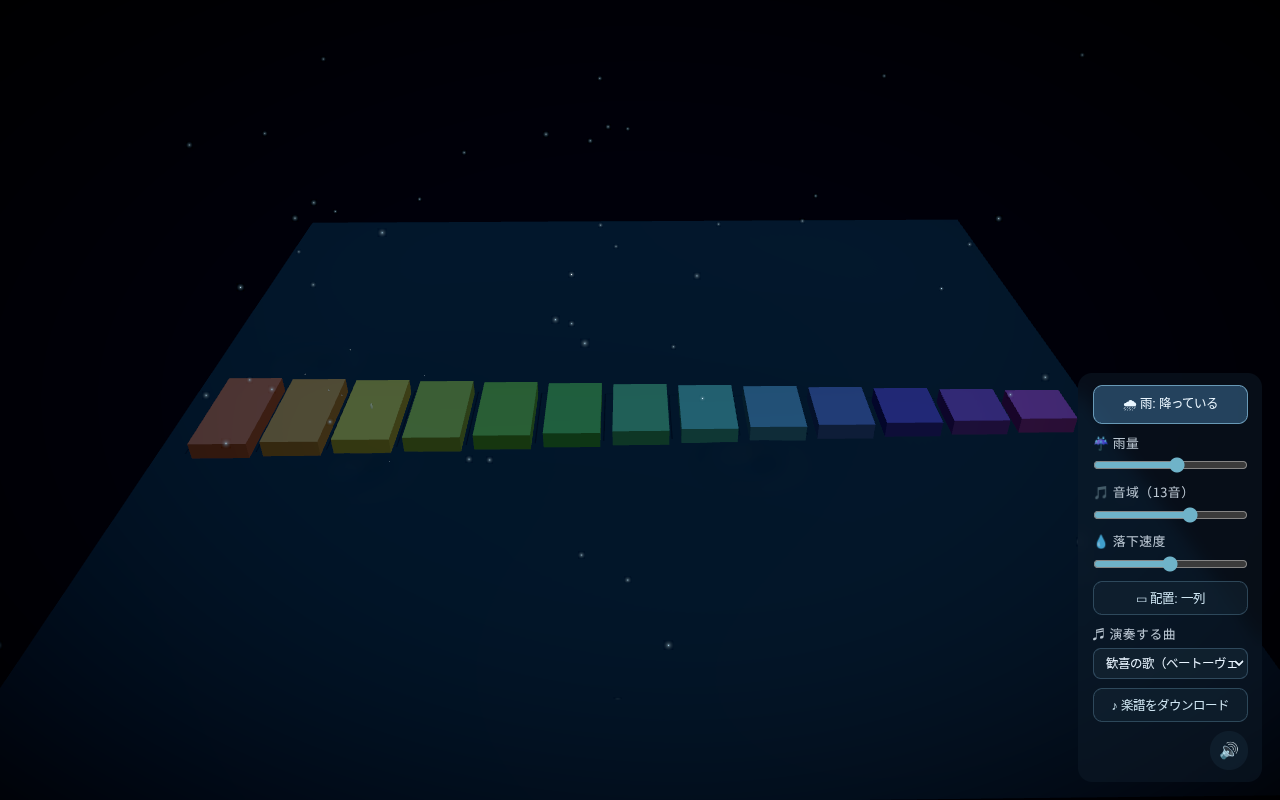
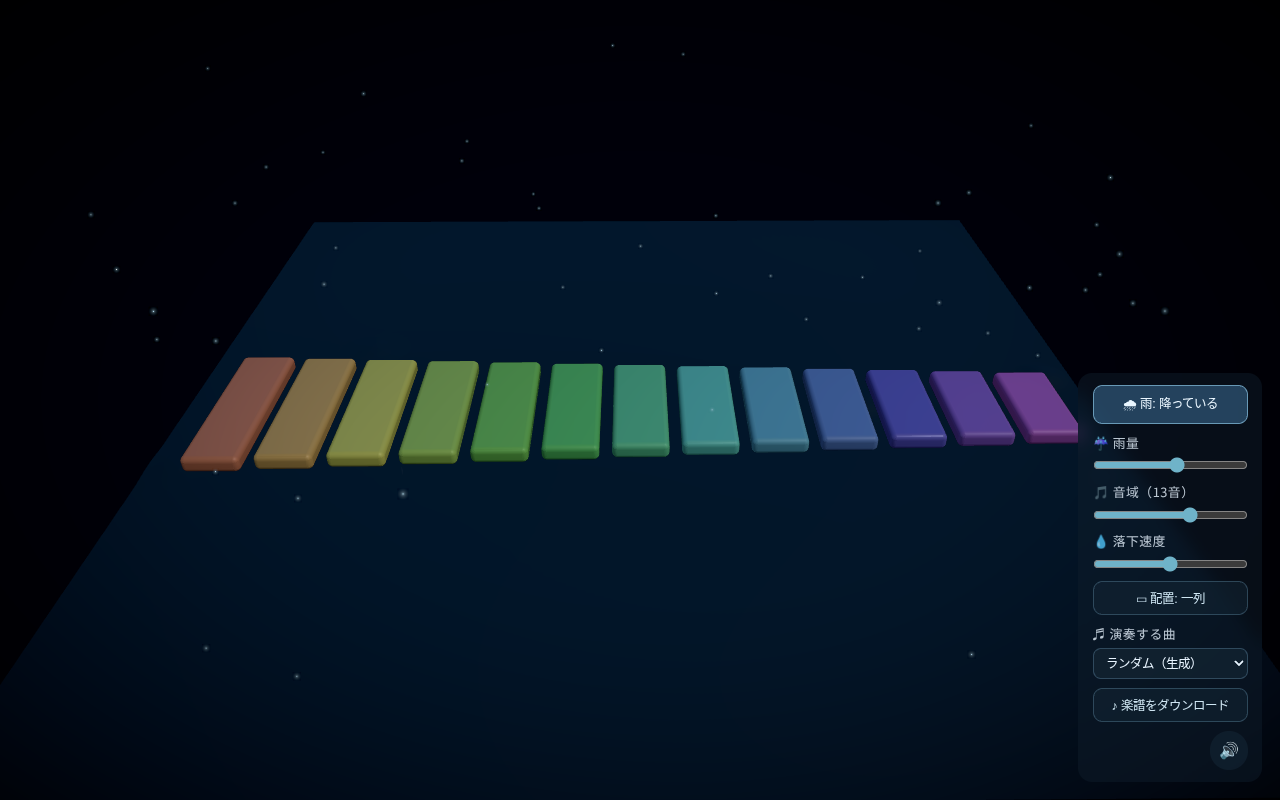
feat: スマホは描画品質を自動で低減（dpr/解像度/分割/影/AA）・板を長く・角丸＋マット木質でポリゴン感を解消

Changed region(s): [[0.125, 0.4375, 0.8438, 0.5938], [0.8438, 0.8125, 0.9375, 0.8438]]

diff --git a/src/scene/XylophoneBar.tsx b/src/scene/XylophoneBar.tsx
@@ -1,6 +1,7 @@
 import { useMemo, useRef, type MutableRefObject } from 'react'
 import { useFrame } from '@react-three/fiber'
-import { Color, type MeshStandardMaterial } from 'three'
+import { RoundedBox } from '@react-three/drei'
+import { Color, type MeshPhysicalMaterial } from 'three'
 import type { BarDef } from '../config'
 
 export type XylophoneBarProps = {
@@ -13,12 +14,14 @@ const GLOW_COLOR = new Color('#ffeeb0')
 const GLOW_DECAY = 4.5 // 秒で減衰（短い閃光に）
 
 /**
- * マリンバ風の鉄琴バー 1 本。着水のタイミングからの経過時間に応じて
- * emissive が立ち上がり徐々に収まる（Bloom で柔らかく光る）。
+ * マリンバ風の鉄琴バー 1 本。角を丸めた箱（RoundedBox）＋マットな木質＋うっすら艶の
+ * マテリアルにして、カクカクしたポリゴン感を抑える。命中時は emissive が立ち上がり徐々に収まる。
  */
 export function XylophoneBar({ bar, lastHitRef }: XylophoneBarProps) {
-  const matRef = useRef<MeshStandardMaterial>(null)
+  const matRef = useRef<MeshPhysicalMaterial>(null)
   const baseColor = useMemo(() => new Color(bar.color), [bar.color])
+  // 角の丸み。板の高さに対して控えめに（潰れない範囲で）。
+  const radius = Math.min(0.06, bar.size[1] * 0.45)
 
   useFrame((state) => {
     const mat = matRef.current
@@ -31,14 +34,24 @@ export function XylophoneBar({ bar, lastHitRef }: XylophoneBarProps) {
   })
 
   return (
-    <mesh position={[...bar.position]} rotation={[0, bar.rotationY, 0]} castShadow receiveShadow>
-      <boxGeometry args={[...bar.size]} />
-      <meshStandardMaterial
+    <RoundedBox
+      args={[...bar.size]}
+      radius={radius}
+      smoothness={4}
+      position={[...bar.position]}
+      rotation={[0, bar.rotationY, 0]}
+      castShadow
+      receiveShadow
+    >
+      <meshPhysicalMaterial
         ref={matRef}
         color={baseColor}
-        roughness={0.3}
-        metalness={0.65}
+        roughness={0.45}
+        metalness={0.1}
+        clearcoat={0.6}
+        clearcoatRoughness={0.35}
+        envMapIntensity={0.6}
       />
-    </mesh>
+    </RoundedBox>
   )
 }

diff --git a/src/util/quality.ts b/src/util/quality.ts
@@ -1,0 +1,28 @@
+/**
+ * 端末に応じた描画品質。スマホ等の非力な端末では解像度・分割数・影などを落として軽くする。
+ * 起動時に 1 度だけ判定する。
+ */
+function detectMobile(): boolean {
+  if (typeof navigator === 'undefined' || typeof window === 'undefined') return false
+  const coarse = window.matchMedia?.('(pointer: coarse)')?.matches ?? false
+  const touch = (navigator.maxTouchPoints ?? 0) > 0
+  const small = Math.min(window.innerWidth, window.innerHeight) < 768
+  return (coarse && touch) || small
+}
+
+export const isMobile = detectMobile()
+
+export const quality = {
+  /** Canvas の dpr 範囲。 */
+  dpr: (isMobile ? [0.75, 1.25] : [1, 2]) as [number, number],
+  /** 水面シミュレーションのテクスチャ解像度。 */
+  simRes: isMobile ? 128 : 256,
+  /** 水面メッシュの分割数。 */
+  waterSegments: isMobile ? 96 : 200,
+  /** 霧の粒子数。 */
+  sparkles: isMobile ? 24 : 60,
+  /** 影を落とすか（影は重いのでスマホは無効）。 */
+  shadows: !isMobile,
+  /** 後処理のマルチサンプリング。 */
+  multisampling: isMobile ? 0 : 4,
+}

diff --git a/src/scene/Scene.tsx b/src/scene/Scene.tsx
@@ -2,7 +2,8 @@ import { useMemo } from 'react'
 import { Canvas } from '@react-three/fiber'
 import { Environment, Lightformer, OrbitControls, Sparkles } from '@react-three/drei'
 import { ACESFilmicToneMapping } from 'three'
-import { POND_HALF, SIM_RES } from '../config'
+import { POND_HALF } from '../config'
+import { isMobile, quality } from '../util/quality'
 import { createWaterField } from '../water/waterField'
 import { WaterPlane } from '../water/WaterPlane'
 import { WaterSim } from '../water/WaterSim'
@@ -15,14 +16,14 @@ import { Effects } from './Effects'
  * 水面、放置で動く水滴・波紋・鉄琴バー、そして後処理（Bloom/Vignette）。
  */
 export function Scene() {
-  const field = useMemo(() => createWaterField(SIM_RES), [])
+  const field = useMemo(() => createWaterField(quality.simRes), [])
 
   return (
     <Canvas
-      shadows
-      dpr={[1, 2]}
+      shadows={quality.shadows}
+      dpr={quality.dpr}
       camera={{ position: [0, 6, 9], fov: 45 }}
-      gl={{ antialias: true, toneMapping: ACESFilmicToneMapping, toneMappingExposure: 1.1 }}
+      gl={{ antialias: !isMobile, toneMapping: ACESFilmicToneMapping, toneMappingExposure: 1.1 }}
     >
       <color attach="background" args={['#0a131d']} />
       <fog attach="fog" args={['#0a131d', 13, 30]} />
@@ -31,7 +32,7 @@ export function Scene() {
       <directionalLight
         position={[5, 9, 4]}
         intensity={1.1}
-        castShadow
+        castShadow={quality.shadows}
         shadow-mapSize-width={2048}
         shadow-mapSize-height={2048}
         shadow-bias={-0.0004}
@@ -63,7 +64,7 @@ export function Scene() {
 
       {/* 水面の上に漂う微かな霧の粒子。premium な空気感を足す。 */}
       <Sparkles
-        count={60}
+        count={quality.sparkles}
         scale={[POND_HALF * 2, 3.5, POND_HALF * 2]}
         position={[0, 1.4, 0]}
         size={2.4}

diff --git a/src/water/WaterPlane.tsx b/src/water/WaterPlane.tsx
@@ -11,26 +11,26 @@ import {
 } from 'three'
 import {
   POND_HALF,
-  SIM_RES,
   WATER_DISP_SCALE,
   WATER_LEVEL,
   WATER_NORMAL_STRENGTH,
 } from '../config'
+import { quality } from '../util/quality'
 import type { WaterField } from './waterField'
 
 /**
  * 高さ場テクスチャから頂点を変位させ、勾配から法線を再計算する水面。
  * MeshStandardMaterial を onBeforeCompile でパッチし、PBR の映り込み（環境マップ）と
- * Bloom/トーンマッピングにそのまま乗せる。これで「水面そのものが波打つ」表現になる。
+ * トーンマッピングにそのまま乗せる。これで「水面そのものが波打つ」表現になる。
  */
 
 const PLANE_SIZE = POND_HALF * 2
-const SEGMENTS = 200
+const SEGMENTS = quality.waterSegments
 
 export function WaterPlane({ field }: { field: WaterField }) {
   const uniforms = useRef<{ [k: string]: IUniform }>({
     uHeight: { value: null as Texture | null },
-    uTexel: { value: new Vector2(1 / SIM_RES, 1 / SIM_RES) },
+    uTexel: { value: new Vector2(1 / field.resolution, 1 / field.resolution) },
     uDisp: { value: WATER_DISP_SCALE },
     uNormalStrength: { value: WATER_NORMAL_STRENGTH },
   })

diff --git a/src/config.ts b/src/config.ts
@@ -100,10 +100,11 @@ function makeRowBars(notes: readonly string[]): BarDef[] {
   const spread = spacing * (c - 1)
   return notes.map((note, i) => {
     const frac = c > 1 ? i / (c - 1) : 0
+    // 板は長め（奥行 Z）。低音ほど長い。
     return {
       id: i,
-      position: [-spread / 2 + spacing * i, BAR_BASE_Y, 0.4] as const,
-      size: [spacing * 0.82, 0.18, 1.25 - 0.7 * frac] as const,
+      position: [-spread / 2 + spacing * i, BAR_BASE_Y, 0.3] as const,
+      size: [spacing * 0.82, 0.18, 2.0 - 0.8 * frac] as const,
       rotationY: 0,
       note,
       color: `hsl(${hueOf(frac)}, 55%, 62%)`,
@@ -122,7 +123,7 @@ function makeCircleBars(notes: readonly string[]): BarDef[] {
   return notes.map((note, i) => {
     const frac = c > 1 ? i / (c - 1) : 0
     const theta = (i / c) * Math.PI * 2
-    const depth = 1.1 - 0.5 * frac
+    const depth = 1.7 - 0.7 * frac // 長め
     return {
       id: i,
       position: [Math.sin(theta) * radius, BAR_BASE_Y, Math.cos(theta) * radius] as const,

diff --git a/src/scene/Effects.tsx b/src/scene/Effects.tsx
@@ -4,6 +4,7 @@ import {
   HueSaturation,
   Vignette,
 } from '@react-three/postprocessing'
+import { quality } from '../util/quality'
 
 /**
  * 静かな夜の水面らしい雰囲気のための後処理。
@@ -15,7 +16,7 @@ import {
  */
 export function Effects() {
   return (
-    <EffectComposer multisampling={4}>
+    <EffectComposer multisampling={quality.multisampling}>
       {/* 夜の水面らしい、ややシアン寄り・低彩度の落ち着いた色調へ。 */}
       <HueSaturation saturation={-0.08} />
       <BrightnessContrast brightness={-0.03} contrast={0.09} />